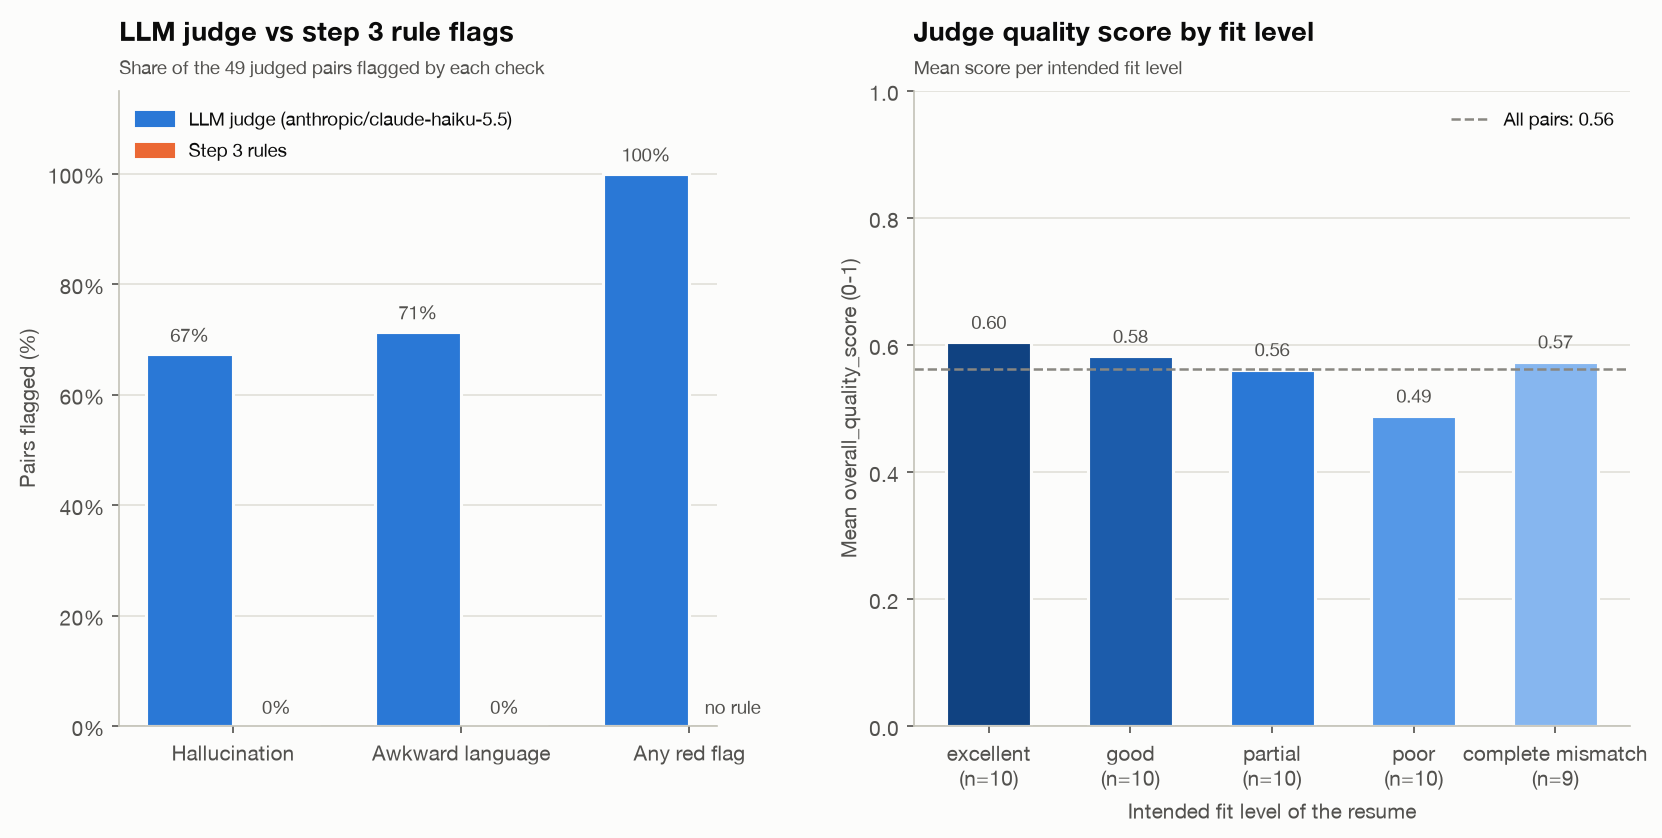
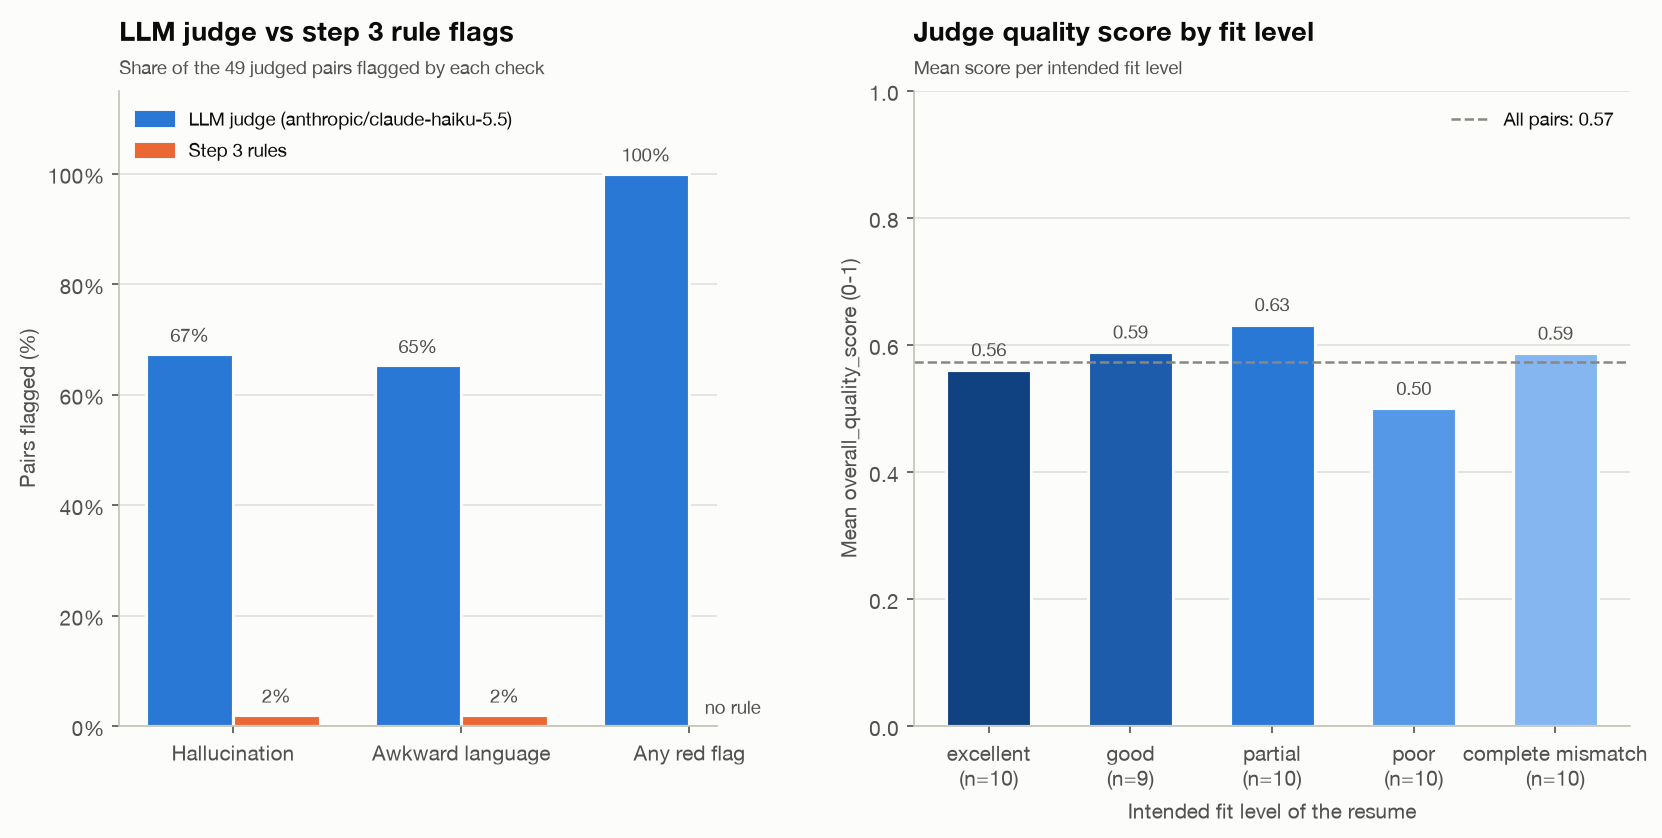
docs: Update README with details on archived run charts and judge output location

diff --git a/README.md b/README.md
@@ -91,7 +91,7 @@ Step 4 writes 10 PNGs and `failure_rates_table.csv` to `visualizations/<timestam
 
 ### Latest run
 
-Run `20261014T132013219616Z`: 10 jobs and 49 resumes. All 108 records (jobs, resumes and pairs) passed validation on the first try, so the correction step had nothing to fix. The copies below are in `docs/` because `visualizations/` is not committed.
+Run `20261014T132013219616Z`: 10 jobs and 49 resumes. All 108 records (jobs, resumes and pairs) passed validation on the first try, so the correction step had nothing to fix. The copies below are in `docs/` because `visualizations/` is not committed; the run's full charts are archived in `visualizations/archive/pre-style-fix/20261014T132013219616Z/`. This run predates the writing-style rotation, so its writing-style breakdown repeats the fit-level one.
 
 ![Skills overlap by fit level](docs/skills_overlap_by_fit_level.png)
 
@@ -103,7 +103,7 @@ Every resume's skills overlap falls inside the band for its intended fit level. 
 
 ## Example: one pair end to end
 
-A "partial"-fit pair from the run above, `907401ce14ce`. It is abridged; full records are in `output/pairs_enriched_*.jsonl`.
+A "partial"-fit pair from the run above, `907401ce14ce`. It is abridged; full records are in `output/archive/pre-style-fix/pairs_enriched_20261014T132013219616Z.jsonl`.
 
 **Job** (`formal_corporate` template, Health care and social assistance): Registered Nurse at Sunnyvale Health Center, mid level, 4 years. Required skills are Clinical assessment, EHR documentation, Medication administration, Patient education, Interdisciplinary collaboration and Quality improvement participation.
 
@@ -147,7 +147,7 @@ The judge ran on all 49 valid pairs from run `20261014T132013219616Z` with `anth
 - **Every pair has at least one red flag.** 30 of 49 pairs have an unexplained employment gap, most often between graduation and the first role. Other recurring flags are responsibilities that exceed the job title and skill years longer than the roles that used them.
 - **Quality score barely tracks fit.** The mean is 0.56. By fit level it runs from 0.60 for "excellent" to 0.49 for "poor", and "complete mismatch" scores 0.57. The score rates the resume itself, while fit is covered by `fit_assessment` and the step 3 flags.
 
-These numbers are a snapshot of one 49-pair run, and `output/` is not committed.
+These numbers are a snapshot of one 49-pair run. `output/` is not committed; this run's verdicts are archived in `output/archive/pre-style-fix/judge_output.json`, so regenerate the chart with `python3 judge_chart.py output/archive/pre-style-fix/judge_output.json`.
 
 ## Review API
 
